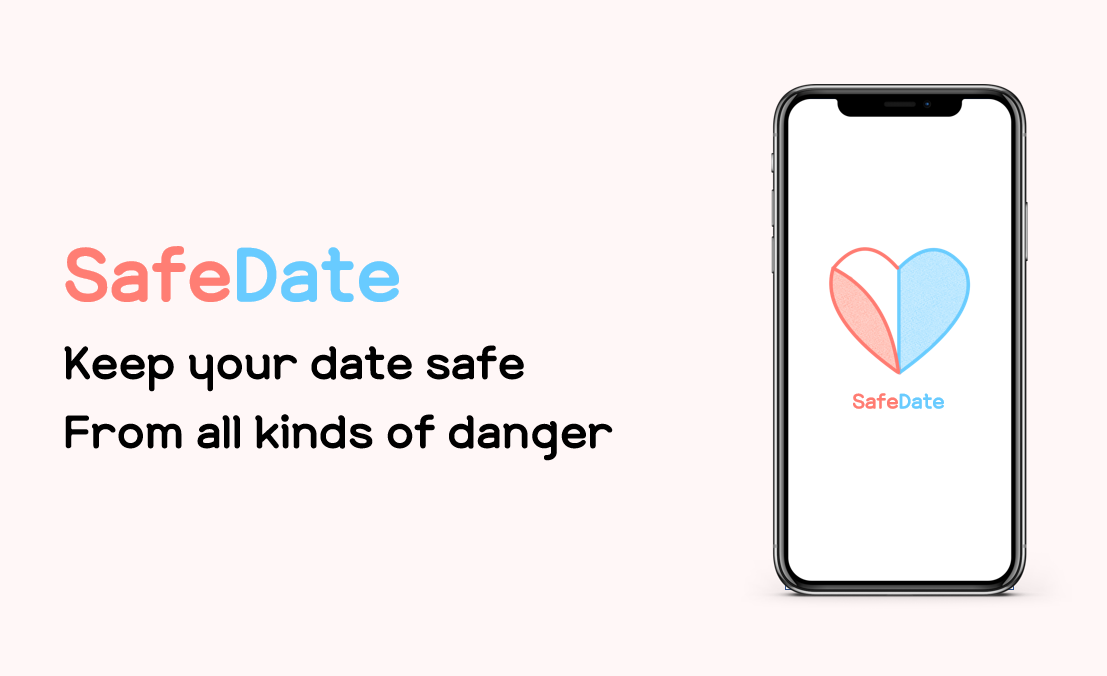
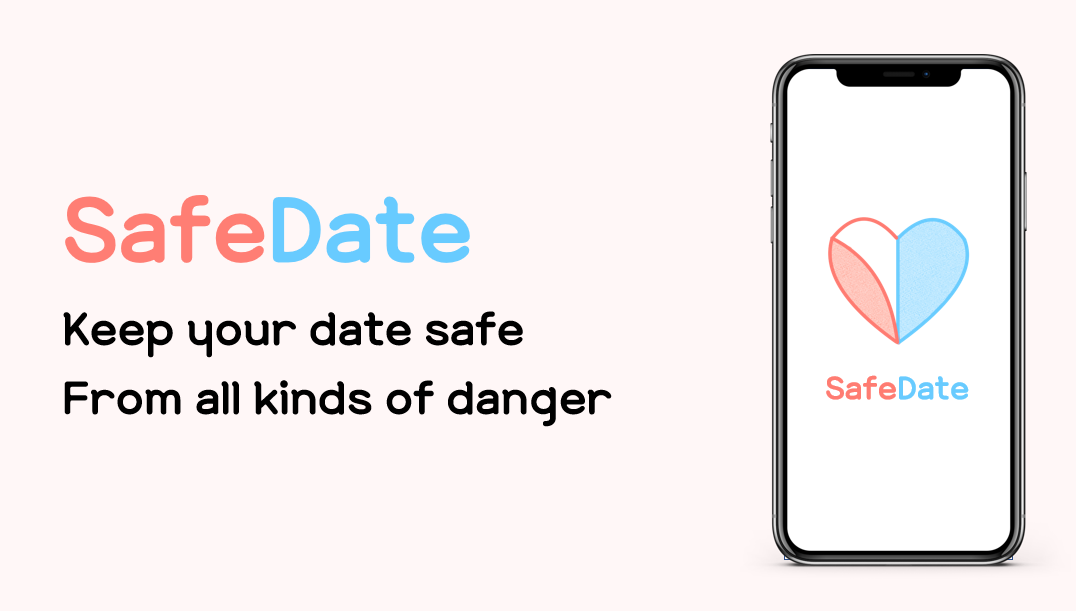
add image

diff --git a/index.html b/index.html
@@ -49,7 +49,7 @@
         </div>
     </nav>
 
-    <img src = "images/stop_abuse_poster.PNG" style="width: 100%;">
+    <img src = "images/appdownlaod.PNG" style="width: 100%;">
 
     <div class='item_container'>
         <div class='item_container_grid'>
